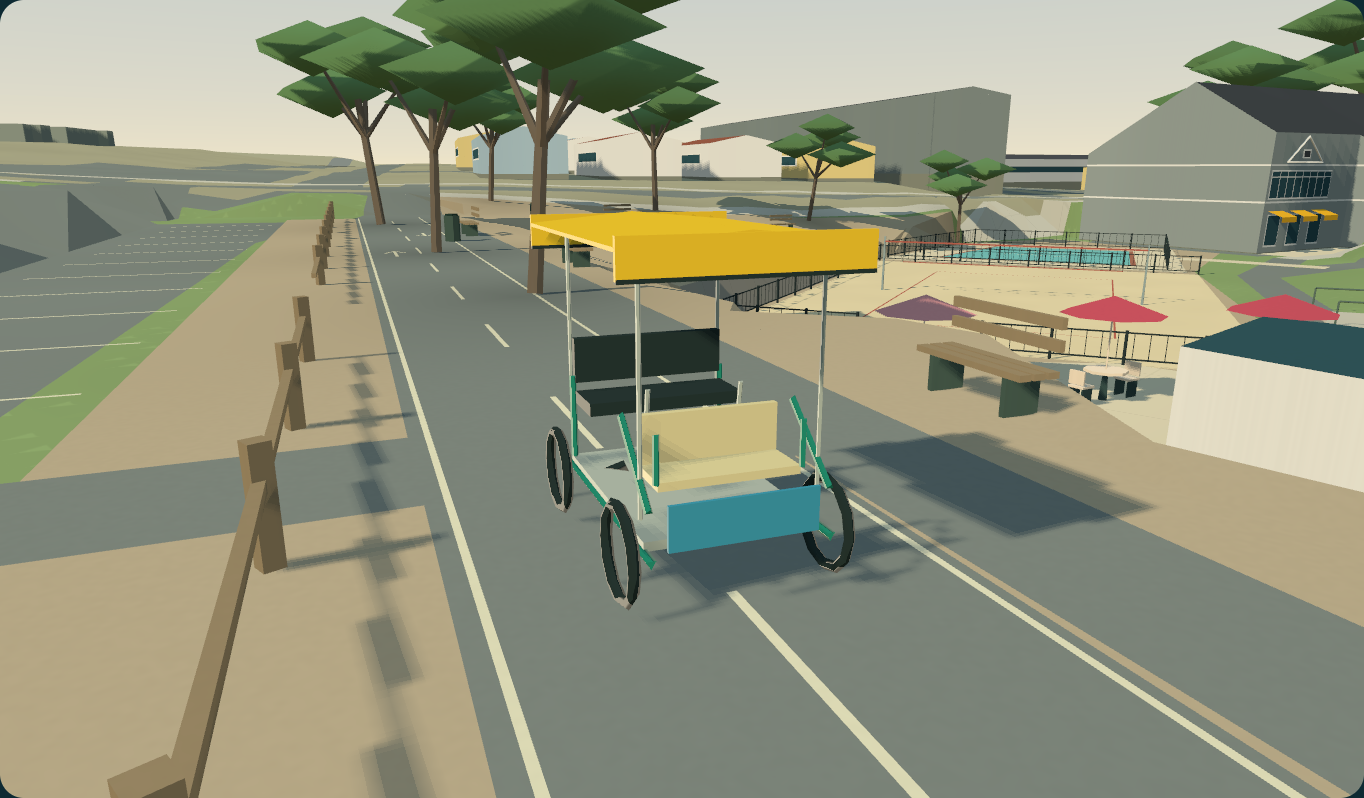
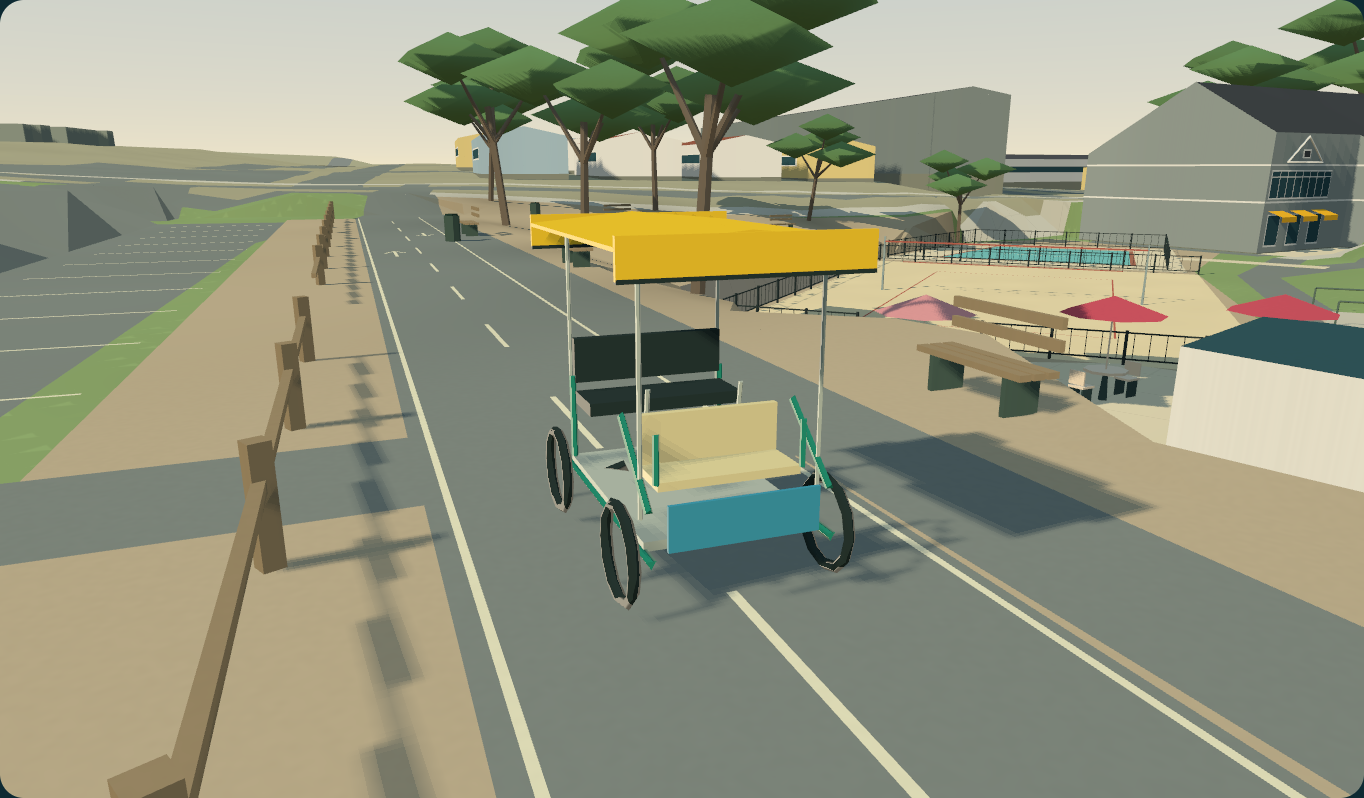
Keep Lovers Point tree trunks clear of the bike path

diff --git a/tests/coastal-trees.test.ts b/tests/coastal-trees.test.ts
@@ -4,10 +4,12 @@ import {Box3,Mesh,Vector3,InstancedMesh,Matrix4} from 'three';
 import {TREE_SPECIES,createCoastalTree,type TreeSpecies} from '../src/models/habitat/trees/createCoastalTree';
 import {disposeObject} from '../src/models/props/primitives';
 import {prepareGeometryLods,triangles} from '../src/models/shared/lod/geometry';
-import {PARK_TREES} from '../src/viewer/testingGym/placement';
+import {PARK_TREES,TREE_PLACEMENT_OVERRIDES} from '../src/viewer/testingGym/placement';
 import {createParkNature} from '../src/viewer/testingGym/nature';
 import {mulberry32} from '../src/models/shared/random';
 import {TREE_SCALE_STUDY} from '../src/viewer/testingGym/treeScaleStudy';
+import features from '../src/data/lovers-point-features.json';
+import {pathStyle} from '../src/viewer/testingGym/pathStyle';
 import inventory from '../src/data/lovers-point-trees.json';
 for(const species of Object.keys(TREE_SPECIES) as TreeSpecies[])test(`${species}: 40 reproducible seeds, exact height, low geometry and owned LODs`,async()=>{
  for(let seed=0;seed<40;seed++){
@@ -23,11 +25,26 @@ for(const species of Object.keys(TREE_SPECIES) as TreeSpecies[])test(`${species}
   disposeObject(root);assert([...counts.values()].every(n=>n===1));disposeObject(copy);
  }
 });
-test('park records preserve municipal coordinates and species; native showcase trees are not planted speculatively',()=>{
+test('park records preserve source coordinates and species with explicit trail overrides; native showcase trees are not planted speculatively',()=>{
  assert.equal(PARK_TREES.length,52);assert.equal(new Set(PARK_TREES.map(t=>t.sourceId)).size,52);
  assert.equal(PARK_TREES.filter(t=>t.species==='monterey-cypress').length,43);
  assert(!PARK_TREES.some(t=>t.species==='monterey-pine'||t.species==='coast-live-oak'));
- for(const tree of PARK_TREES){const k=Math.PI/180*6371008.8;assert(Math.abs(tree.x-(tree.longitude-inventory.origin[0])*k*Math.cos(inventory.origin[1]*Math.PI/180))<.00051);assert(Math.abs(tree.z+(tree.latitude-inventory.origin[1])*k)<.00051);}
+ for(const tree of PARK_TREES){const k=Math.PI/180*6371008.8;assert(Math.abs(tree.original[0]-(tree.longitude-inventory.origin[0])*k*Math.cos(inventory.origin[1]*Math.PI/180))<.00051);assert(Math.abs(tree.original[1]+(tree.latitude-inventory.origin[1])*k)<.00051);}
+});
+test('bike path and crossing stay clear of every trunk and its collision radius',()=>{
+ const trails=features.paths.filter(p=>p.highway==='cycleway'||p.tags.name==='Monterey Bay Coastal Trail');
+ assert.equal(trails.length,2);
+ assert.deepEqual(PARK_TREES.filter(t=>t.x!==t.original[0]||t.z!==t.original[1]).map(t=>t.sourceId).sort(),[4869,4870,4871]);
+ for(const tree of PARK_TREES){
+  const source=inventory.trees.find(t=>t.sourceId===tree.sourceId)!;
+  assert.deepEqual(tree.original.slice(0,2),[source.x,source.z]);
+  assert.deepEqual([tree.x,tree.z],TREE_PLACEMENT_OVERRIDES[tree.sourceId]??[source.x,source.z]);
+  for(const path of trails)for(let i=1;i<path.points.length;i++){
+   const a=path.points[i-1],b=path.points[i],dx=b[0]-a[0],dz=b[1]-a[1];
+   const t=Math.max(0,Math.min(1,((tree.x-a[0])*dx+(tree.z-a[1])*dz)/(dx*dx+dz*dz)));
+   assert(Math.hypot(tree.x-a[0]-t*dx,tree.z-a[1]-t*dz)>=pathStyle(path).width/2+tree.trunkRadius+.75,`Tree ${tree.sourceId} blocks ${path.id}`);
+  }
+ }
 });
 test('spatial tree batches preserve exact source positions, scale, IDs and shared geometry',()=>{
  const nature=createParkNature(mulberry32(6256),(x,z)=>x*.01+z*.02);for(const tree of PARK_TREES)nature.tree(tree);const root=nature.finish();

diff --git a/src/viewer/testingGym/placement.ts b/src/viewer/testingGym/placement.ts
@@ -31,6 +31,14 @@ export function treePlacementIssues(x:number,z:number,height:number):string[] {
   if([[1,0],[-1,0],[0,1],[0,-1]].some(([dx,dz])=>Math.abs(groundHeight(x+dx,z+dz)-y)>.55))issues.push('steep bank');
   return issues;
 }
+/** User-confirmed clear bike path (November photo review). These are authored
+ * planting-strip placements, not corrections to the municipal GIS coordinates.
+ * Only the three conflicting trunks move; crowns may still overhang paving. */
+export const TREE_PLACEMENT_OVERRIDES:Readonly<Record<number,readonly [number,number]>>={
+  4869:[-5.743,85.010],
+  4870:[-14.570,80.679],
+  4871:[-27.454,74.359],
+};
 /** Photo-based site heights override the provisional size classes without editing GIS data.
  * DBH is a relative age/size hint only: its source units are unspecified. */
 export function resolveParkTrees() {
@@ -39,9 +47,11 @@ export function resolveParkTrees() {
     const studyHeight=species==='monterey-cypress'?TREE_SCALE_STUDY.heights[record.sourceId]:undefined;
     const height=studyHeight??(species==='monterey-cypress'?(record.dbhSourceValue>45?9:record.dbhSourceValue>20?7:record.dbhSourceValue>8?5:2.8):TREE_SPECIES[species].height);
     const trunkRadius=height*(species==='monterey-cypress'?.03:.06);
-    return {...record,species,height,trunkRadius,heightBasis:studyHeight===undefined?'authored size class':'photo-based site estimate',
+    const [x,z]=TREE_PLACEMENT_OVERRIDES[record.sourceId]??[record.x,record.z];
+    return {...record,x,z,species,height,trunkRadius,
+      positionBasis:TREE_PLACEMENT_OVERRIDES[record.sourceId]?'authored planting-strip placement; user-confirmed clear bike path':'municipal inventory coordinate', heightBasis:studyHeight===undefined?'authored size class':'photo-based site estimate',
       heightUncertaintyMetres:studyHeight===undefined?undefined:TREE_SCALE_STUDY.heightUncertaintyMetres,
-      original:[record.x,record.z,height] as const,issues:treePlacementIssues(record.x,record.z,height)};
+      original:[record.x,record.z,height] as const,issues:treePlacementIssues(x,z,height)};
   });
 }
 export const PARK_TREES=resolveParkTrees();

diff --git a/tests/testing-gym-surface.test.ts b/tests/testing-gym-surface.test.ts
@@ -95,11 +95,10 @@ test('bath house waterfront entrances have a continuous lower approach while the
   assert(groundHeight(-15,13)>9,'The western hillside must remain behind the bath house');
 });
 
-test('inventory tree trunks stay outside mapped building footprints without relocation',()=>{
+test('resolved tree trunks stay outside mapped building footprints',()=>{
   assert.equal(PARK_TREES.length,52);
   for(const tree of PARK_TREES)for(const building of map.buildings) {
     const points=building.points.map(([x,z])=>[x,z] as GymPoint);
     assert(!insidePolygon(tree.x,tree.z,points),String(tree.sourceId));
-    assert.equal(tree.x,tree.original[0]);assert.equal(tree.z,tree.original[1]);
   }
 });

diff --git a/docs/lovers-point-surrey.md b/docs/lovers-point-surrey.md
@@ -7,7 +7,7 @@ November 6, 2026. The contributor's nine November 3 photographs are visual evide
 | Reference | Characteristics | Implementation and limits |
 | --- | --- | --- |
 | Beach panorama and close pier, photos 1 and 4 | Solid pale concrete upper promenade; dark railing; lower waterside platform; stairs against the wall; cream hut with red cap | Level outer deck, separate lower landing, 16 descending treads, shared collision/footing table, concrete apron, red hut parapet and cream shutters. The inland approach retains its mapped alignment and DEM rise. Exact shoreline, weathering and railing spacing remain simplified. |
-| Promenade/court, photos 2 and 7 | Broad pedestrian paving beside a narrower marked asphalt bicycle lane; timber parking rails; volleyball court and kiosk below the path; mature cypress | Retain the existing mapped trail, court terrace, lane markings, parking rails and tree inventory. Correct the kiosk fascia/sign to turquoise. Do not infer new surveyed path widths from perspective. |
+| Promenade/court, photos 2 and 7 | Broad pedestrian paving beside a narrower marked asphalt bicycle lane; timber parking rails; volleyball court and kiosk below the path; mature cypress | Retain the existing mapped trail, court terrace, lane markings and parking rails. Three overlapping cypress render placements (4869–4871) move to the adjacent planting strip after user confirmation; original tree inventory coordinates remain unchanged. Correct the kiosk fascia/sign to turquoise. Do not infer new surveyed path widths from perspective. |
 | Street-facing building, photo 3 | Three storeys, gray walls, white balcony bays, dark shallow roof | Replace the generic single-storey lodge interpretation with an 8.4 m wall estimate, repeated window surrounds and two upper balcony rows. Keep its mapped footprint; the photograph covers only part of the frontage. The swan display is recorded as reference context, not newly recreated here. |
 | Interpretive sign and rocky shore, photos 5 and 6 | Tilted sign, green court fence, low stone coastal wall, lawn and rocky point | Preserve existing park composition. The sign text is not transcribed or invented; fine stone and foliage detail remains outside this pass. |
 | Surrey front and side, photos 8 and 9 | Green tubular chassis, yellow canopy/black trim, four bicycle wheels, silver mudguards, paired steering wheels, rear black adult bench, cream front child seat and low pedals | New reusable procedural surrey; broad palette blocks replace woven strands, tire tread, rental lettering and small hardware. Canopy seam, mudguard orientation and tree clearance were corrected during screenshot review. |

diff --git a/docs/coastal-trees.md b/docs/coastal-trees.md
@@ -16,7 +16,7 @@ The frame is the existing origin **121.91685° W, 36.6256° N**, metres, +X east
 | Cordyline australis | 1 | Cabbage tree, introduced |
 | Ilex spp. | 1 | Holly silhouette proxy; exact species unknown |
 
-The old search could move a tree up to 24 m to satisfy guessed clearances. It is gone. Source points remain fixed. `treePlacementIssues` reports map disagreements instead of moving trees: 21 records have a conservative path, crown, beach/facility or slope warning, including one crown near a building; no trunk lies inside a mapped building footprint. A real tree can overhang a path, grow at a retaining wall, or occupy a planting strip missing from OSM. These warnings need site confirmation, not invented “corrected” coordinates. The elevation grid still controls root Y.
+The old search could move a tree up to 24 m to satisfy guessed clearances. It is gone. Source records remain unchanged. Following the November photo review and the user’s confirmation that the bicycle lane has no trees, render placements for IDs 4869, 4870 and 4871 move to the adjacent compacted planting strip, approximately 5 m from the trail centreline. These three explicit overrides are authored estimates, shared by Gym, Map Study and collision proxies; they are not surveyed replacements for the GIS coordinates. All other placements remain fixed. `treePlacementIssues` reports remaining map disagreements instead of automatically moving trees. Before these three overrides, 21 records have a conservative path, crown, beach/facility or slope warning, including one crown near a building; no trunk lies inside a mapped building footprint. A real tree can overhang a path, grow at a retaining wall, or occupy a planting strip missing from OSM. These warnings need site confirmation, not invented “corrected” coordinates. The elevation grid still controls root Y.
 
 Cypress heights outside the photo study use authored 2.8 / 5 / 7 / 9 m classes ordered by the source DBH values; the service does not state DBH units, so values are never converted to physical diameters or calculated heights. Other species use the representative heights below. Crowns, age/health, growth direction and exact current presence remain provisional. The cypress trunk collision radius is 3% of chosen height, matching its slimmer trunk; other species retain 6%. These are gameplay proxies, not measured diameters.
 

diff --git a/docs/reviews/lovers-point-surrey.md b/docs/reviews/lovers-point-surrey.md
@@ -51,3 +51,7 @@ The complete unit run passed 588 tests. After the final authored frame LOD refin
 - Existing terrain/access checks preserve mapped centerline traversal, supported building foundations and single-surface ground coverage across LOD.
 
 Desktop Chrome checks do not establish physical phone, gamepad, Safari or Firefox support. Kinematic collisions are conservative, and the rider pose is stylized rather than a full pedal-contact IK solver.
+
+## Clear bike-path correction
+
+User review confirmed that the paved bike lane has no trees. Three overlapping cypress placements (inventory IDs 4869, 4870, 4871) now sit in the adjacent planting strip. Original GIS coordinates are preserved separately; these render-placement overrides also drive Gym collision and canopy shading and the Map Study. Tree count, geometry and draw costs are unchanged. Updated screenshots were inspected on WebGPU and WebGL; 18 focused tree, terrain and vehicle tests plus the production build passed. A regression checks every trunk against both mapped trail segments and the crossing, including collision clearance.
